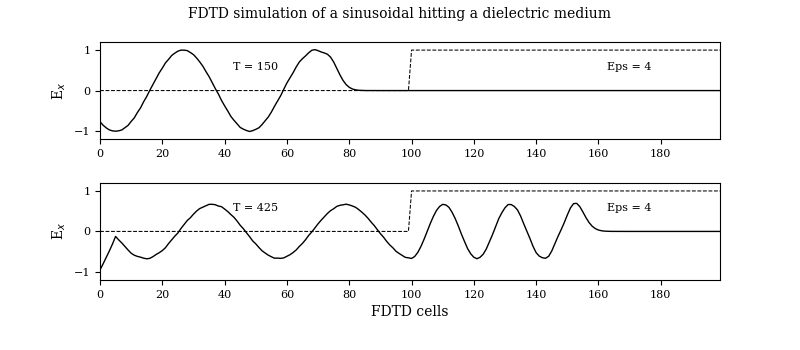
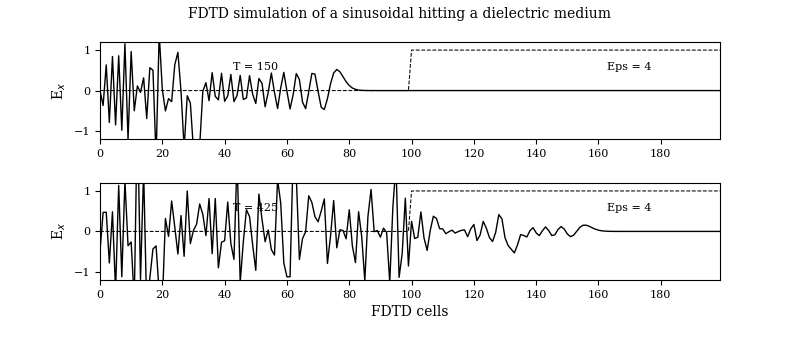
simulation of a propagating sinusoidal from 700 MHz upwards at intervals of 300 MHz

diff --git a/Chapter_1/Problems/Problem_1_5/fd1d_1_2.py b/Chapter_1/Problems/Problem_1_5/fd1d_1_2.py
@@ -10,7 +10,7 @@ import matplotlib.pyplot as plt
 import numpy as np
 import matplotlib
 matplotlib.rcParams.update({'font.family': 'serif', 'font.size': 8,
-    'axes.labelsize': 10, 'axes.titlesize': 10, 'figure.titlesize': 10})
+                            'axes.labelsize': 10, 'axes.titlesize': 10, 'figure.titlesize': 10})
 
 ke = 200
 ex = np.zeros(ke)
@@ -39,7 +39,7 @@ points = [
 
 # FDTD loop
 for time_step in range(1, nsteps + 1):
-    
+
     # calculate the Ex field
     for k in range(1, ke):
         ex[k] = ex[k] + cb[k] * (hy[k - 1] - hy[k])
@@ -62,10 +62,11 @@ for time_step in range(1, nsteps + 1):
         if time_step == plot_data['num_steps']:
             plot_data['data'] = np.copy(ex)
 
-    freq = freq + 300
+    freq = freq + 300e6
 
 fig = plt.figure(figsize=(8, 3.5))
 fig.suptitle(r'FDTD simulation of a sinusoidal hitting a dielectric medium')
+
 
 def plotting(data, timestep, label):
     """ plot of E field at a single time step """
@@ -77,9 +78,10 @@ def plotting(data, timestep, label):
     ax.text(50, 0.5, 'T = {}'.format(timestep), horizontalalignment='center')
     ax.text(170, 0.5, 'Eps = {}'.format(epsilon), horizontalalignment='center')
 
+
 for subplot_num, plot_data in enumerate(points):
     ax = fig.add_subplot(2, 1, subplot_num + 1)
     plotting(plot_data['data'], plot_data['num_steps'], plot_data['label'])
 
 plt.subplots_adjust(bottom=0.2, hspace=0.45)
-plt.savefig('fd1d_1_2.pdf')
+plt.savefig('fd1d_1_2.png')
